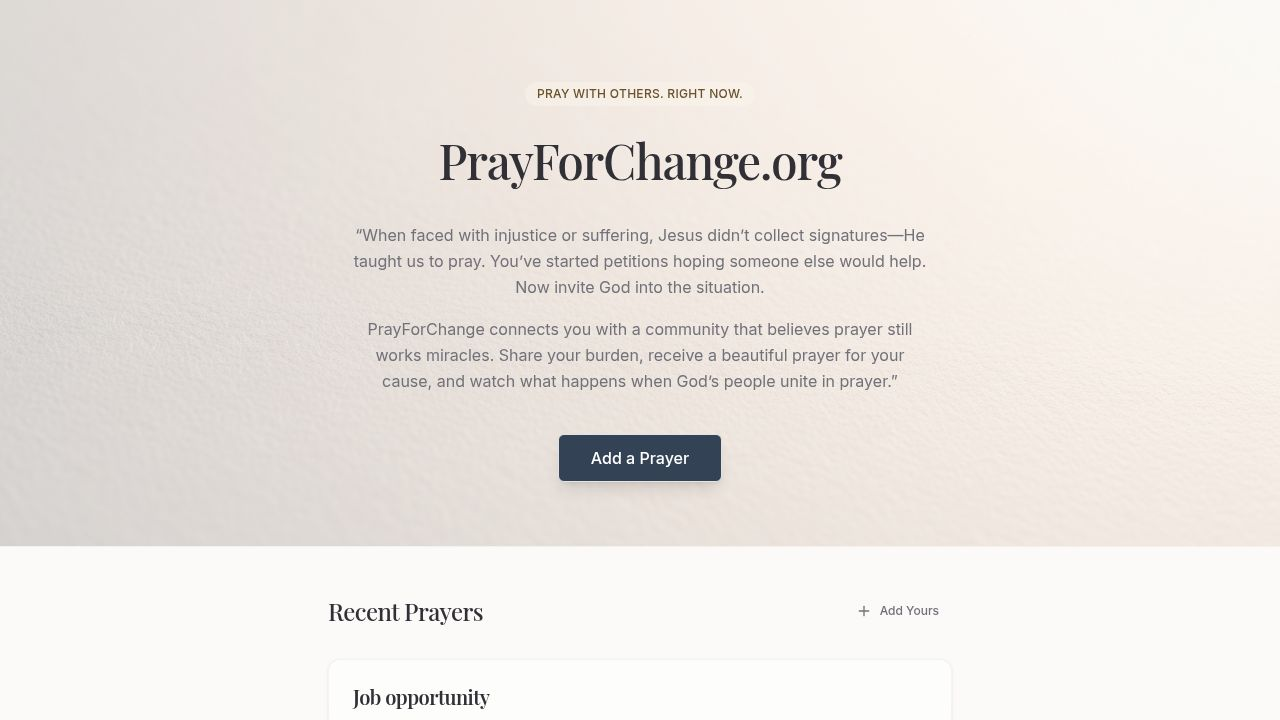
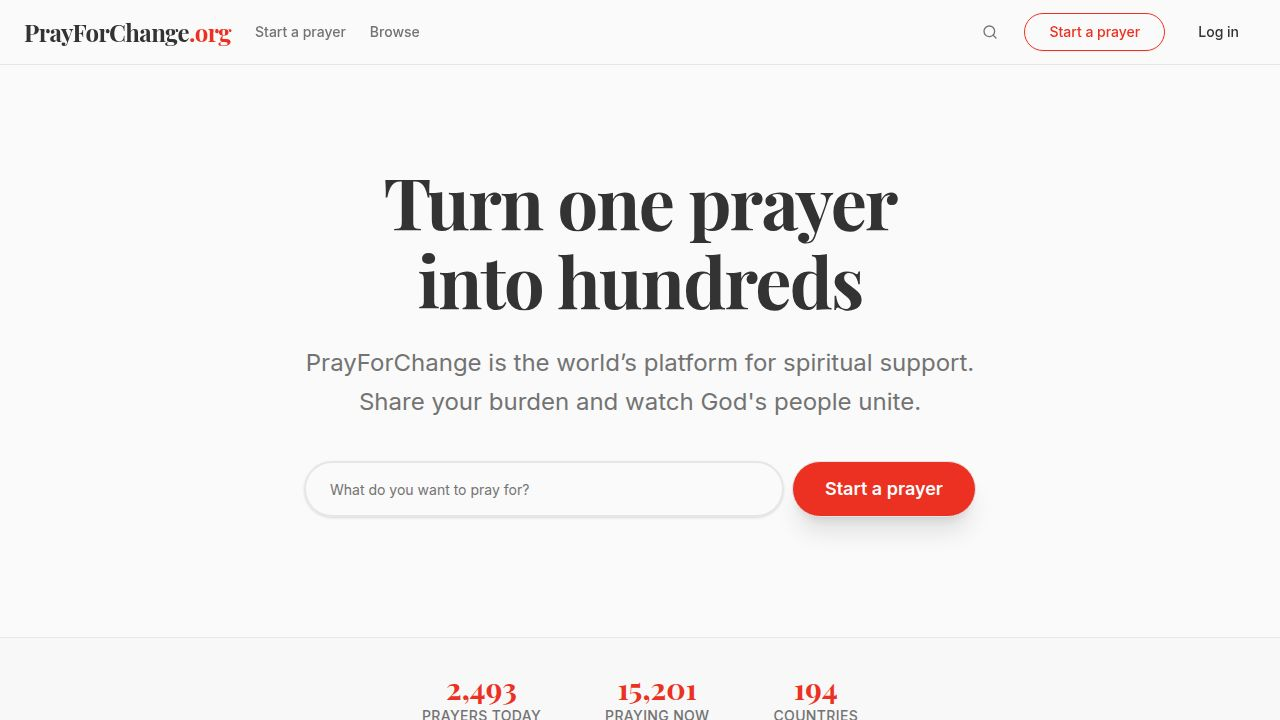
Add an input field to the homepage for users to start a prayer
Pre-fills the prayer creation form with a topic from a new homepage input field.

Replit-Commit-Author: Agent
Replit-Commit-Session-Id: 540dea52-4029-430e-9a02-2f55bc899ce3
Replit-Commit-Checkpoint-Type: full_checkpoint
Replit-Commit-Event-Id: c454cf85-279c-4813-b973-67838fbee119
Replit-Commit-Screenshot-Url: https://storage.googleapis.com/screenshot-production-us-central1/50fb484a-02c0-42b4-9372-a71ff77a0d48/540dea52-4029-430e-9a02-2f55bc899ce3/WkuSDjX
Replit-Helium-Checkpoint-Created: true

diff --git a/client/src/pages/home.tsx b/client/src/pages/home.tsx
@@ -2,10 +2,23 @@ import { usePrayers } from "@/lib/store";
 import { PrayerCard } from "@/components/prayer-card";
 import { Navbar } from "@/components/navbar";
 import { Button } from "@/components/ui/button";
-import { Link } from "wouter";
+import { Input } from "@/components/ui/input";
+import { Link, useLocation } from "wouter";
+import { useState } from "react";
 
 export default function Home() {
   const prayers = usePrayers();
+  const [, setLocation] = useLocation();
+  const [prayerTopic, setPrayerTopic] = useState("");
+
+  const handleStartPrayer = (e: React.FormEvent) => {
+    e.preventDefault();
+    if (prayerTopic.trim()) {
+      setLocation(`/create?title=${encodeURIComponent(prayerTopic)}`);
+    } else {
+      setLocation('/create');
+    }
+  };
 
   return (
     <div className="min-h-screen bg-background font-sans">
@@ -23,15 +36,20 @@ export default function Home() {
             Share your burden and watch God's people unite.
           </p>
           
-          <div className="flex flex-col sm:flex-row gap-4 justify-center">
-            <Link href="/create">
-              <Button size="lg" className="h-14 px-8 rounded-full text-lg font-bold bg-primary hover:bg-primary/90 shadow-xl hover:shadow-2xl transition-all">
-                Start a prayer
-              </Button>
-            </Link>
-            <Button variant="outline" size="lg" className="h-14 px-8 rounded-full text-lg font-medium border-2">
-              Browse prayers
-            </Button>
+          <div className="max-w-2xl mx-auto w-full mb-6">
+             <form onSubmit={handleStartPrayer} className="flex flex-col sm:flex-row gap-2 w-full">
+                <div className="relative flex-grow">
+                  <Input 
+                    className="h-14 text-lg px-6 rounded-full border-2 shadow-sm focus-visible:ring-0 focus-visible:border-primary" 
+                    placeholder="What do you want to pray for?" 
+                    value={prayerTopic}
+                    onChange={(e) => setPrayerTopic(e.target.value)}
+                  />
+                </div>
+                <Button type="submit" size="lg" className="h-14 px-8 rounded-full text-lg font-bold bg-primary hover:bg-primary/90 shadow-xl hover:shadow-2xl transition-all shrink-0">
+                  Start a prayer
+                </Button>
+             </form>
           </div>
         </div>
       </div>

diff --git a/client/src/pages/create-prayer.tsx b/client/src/pages/create-prayer.tsx
@@ -1,4 +1,4 @@
-import { useState } from "react";
+import { useState, useEffect } from "react";
 import { useLocation } from "wouter";
 import { prayerStore } from "@/lib/store";
 import { Button } from "@/components/ui/button";
@@ -11,14 +11,28 @@ import { Link } from "wouter";
 import { useToast } from "@/hooks/use-toast";
 
 export default function CreatePrayer() {
-  const [, setLocation] = useLocation();
+  const [location, setLocation] = useLocation();
   const { toast } = useToast();
   const [isSubmitting, setIsSubmitting] = useState(false);
+  
+  // Parse query params to get initial title if provided
+  const searchParams = new URLSearchParams(window.location.search);
+  const initialTitle = searchParams.get('title') || "";
+
   const [formData, setFormData] = useState({
-    title: "",
+    title: initialTitle,
     description: "",
     author: "",
   });
+  
+  // Ensure form updates if URL changes while component is mounted (though less likely with simple navigation)
+  useEffect(() => {
+    const params = new URLSearchParams(window.location.search);
+    const titleParam = params.get('title');
+    if (titleParam && titleParam !== formData.title) {
+       setFormData(prev => ({ ...prev, title: titleParam }));
+    }
+  }, []);
 
   const handleSubmit = async (e: React.FormEvent) => {
     e.preventDefault();
